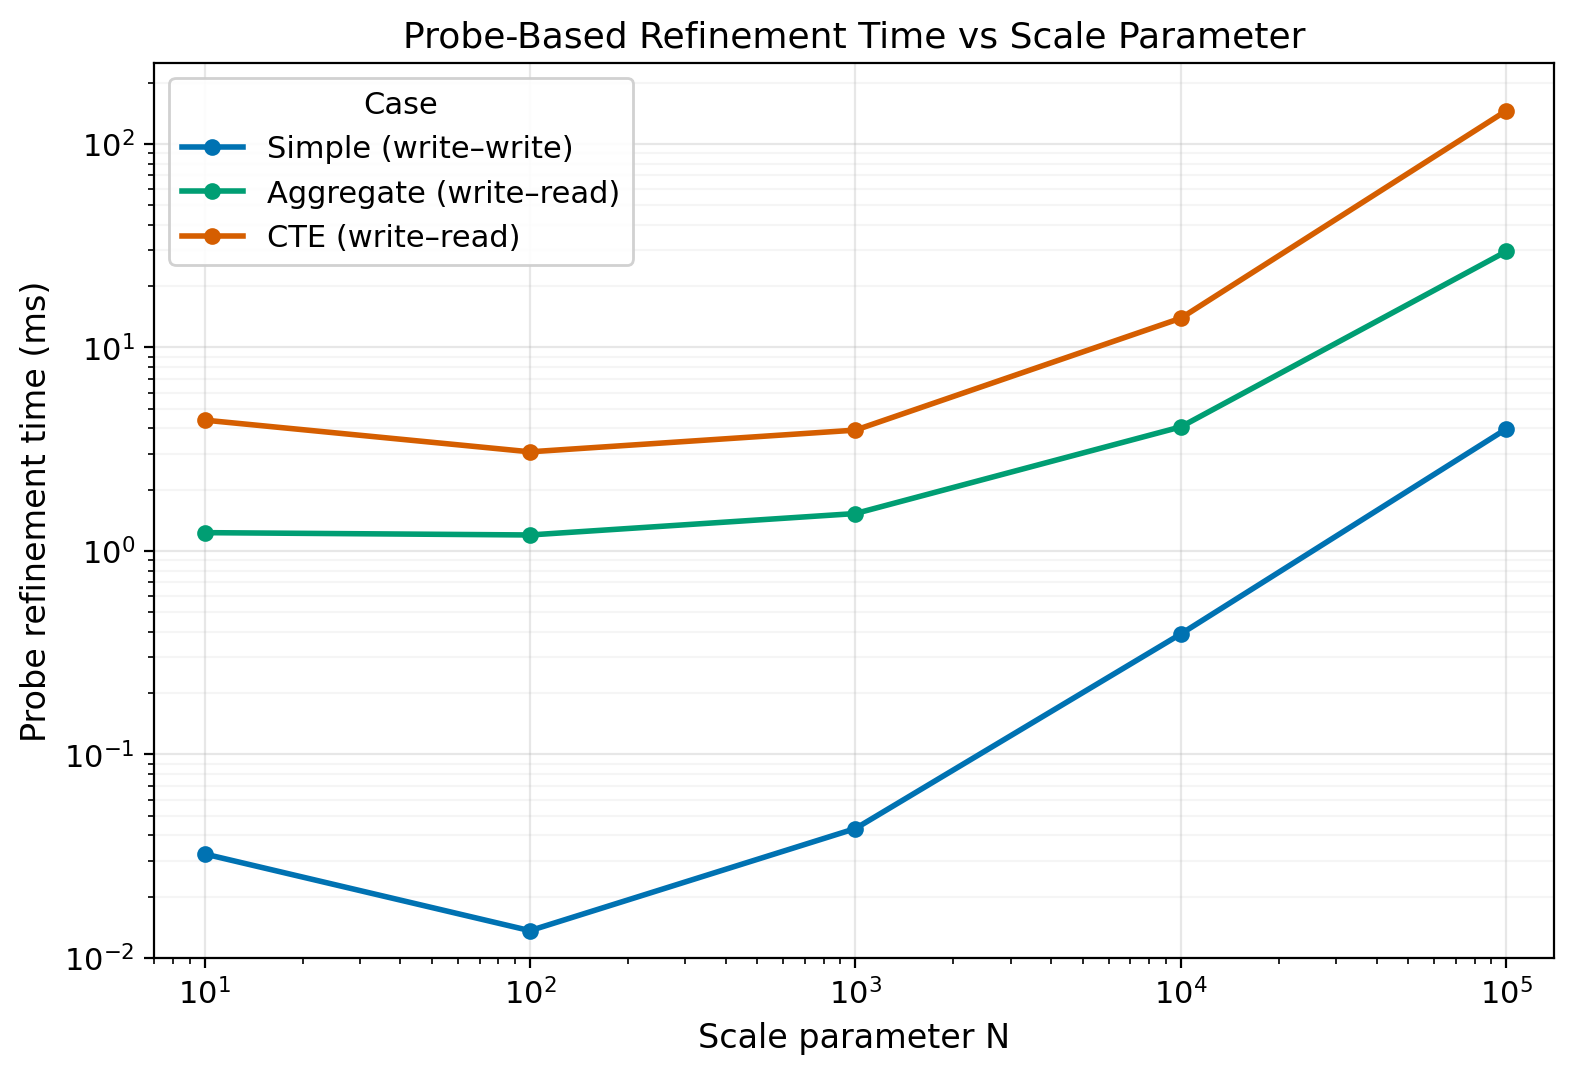
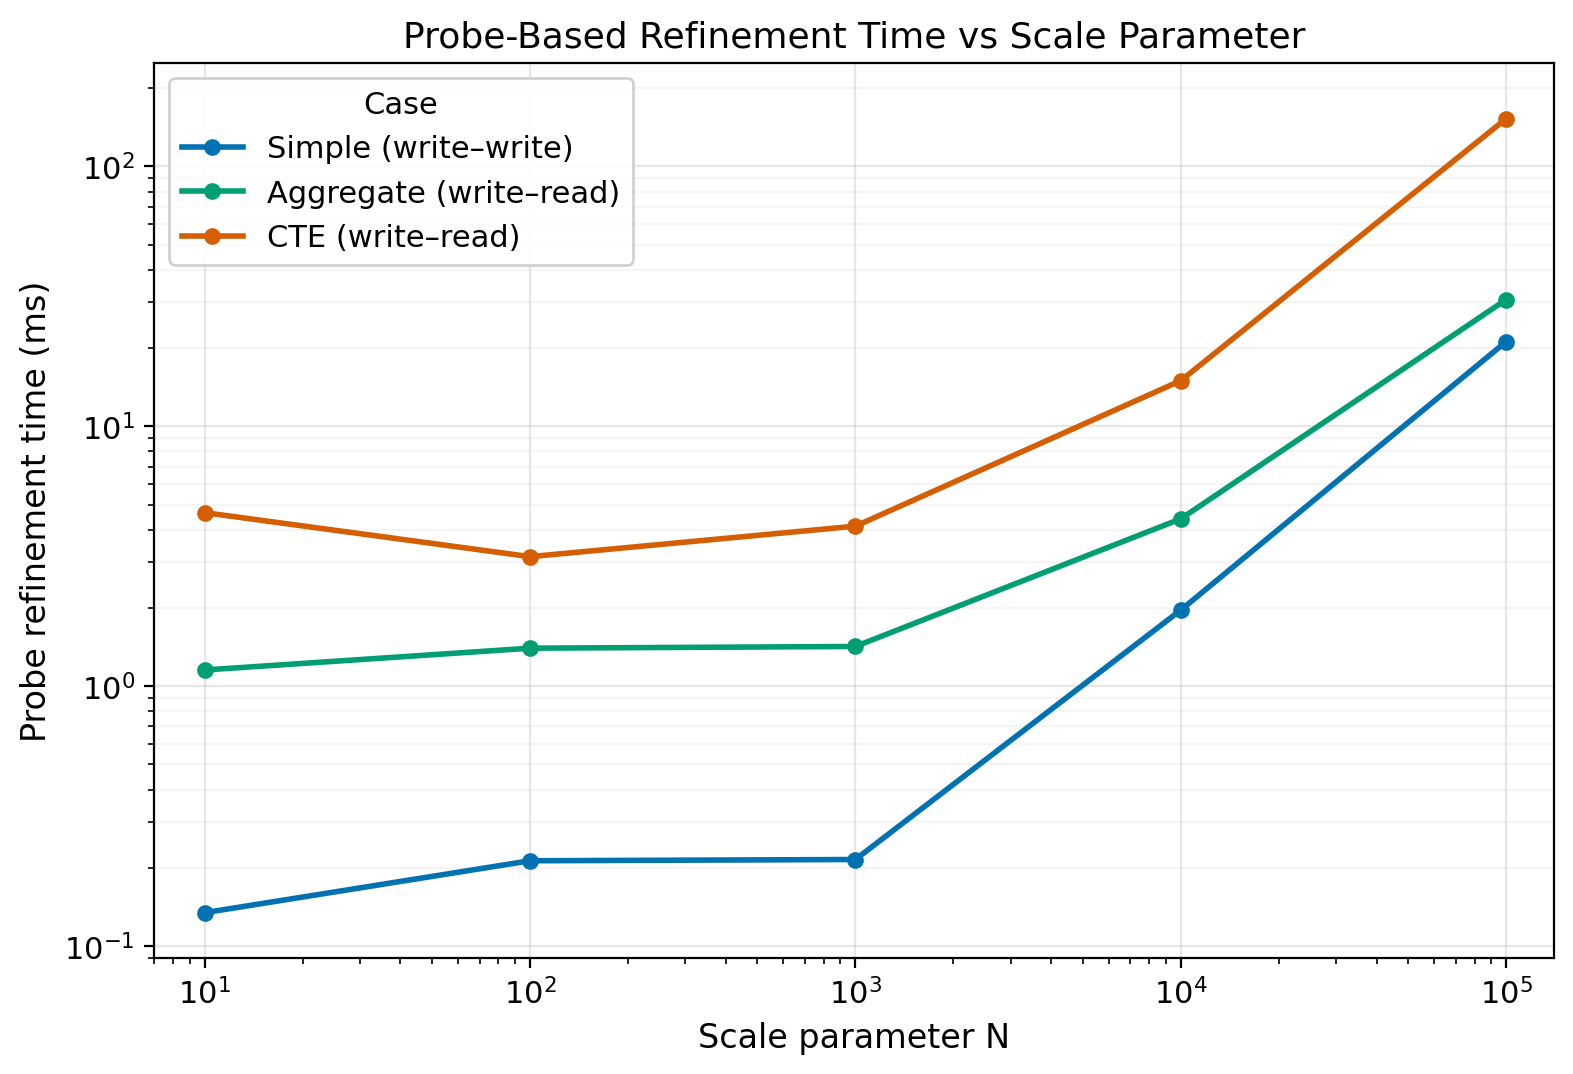
change microbenchmark so simle write-write is conflicting

diff --git a/evaluation/plot_report_graphs.py b/evaluation/plot_report_graphs.py
@@ -181,8 +181,8 @@ def main():
         metric="probe_refinement",
         title="Probe-Based Refinement Time vs Scale Parameter",
         ylabel="Probe refinement time (ms)",
-        ylim=(0.01, 250),
-        yticks=[0.01, 0.1, 1, 10, 100],
+        ylim=(0.09, 250),
+        yticks=[0.1, 1, 10, 100],
         stem="graph_probe_refinement",
     )
 
@@ -191,8 +191,8 @@ def main():
         metric="pair_check_pipeline",
         title="Pair-Check Pipeline Time vs Scale Parameter",
         ylabel="Pair-check pipeline time (ms)",
-        ylim=(0.9, 600),
-        yticks=[1, 10, 100, 500],
+        ylim=(0.45, 600),
+        yticks=[0.5, 1, 10, 100, 500],
         stem="graph_pair_check_pipeline",
     )
 

diff --git a/tools/run_microbenchmark.py b/tools/run_microbenchmark.py
@@ -231,7 +231,6 @@ def _measure_statement_pair_case(
 
 def _statement_pairs(row_count: int) -> tuple[StatementPair, ...]:
     current_range = f"id BETWEEN 1 AND {row_count}"
-    other_range = f"id BETWEEN {row_count + 1} AND {row_count * 2}"
     return (
         StatementPair(
             name="simple_write_write",
@@ -243,7 +242,7 @@ def _statement_pairs(row_count: int) -> tuple[StatementPair, ...]:
             other_sql=(
                 "UPDATE items "
                 "SET value = value + 1 "
-                f"WHERE {other_range}"
+                f"WHERE {current_range}"
             ),
             static_kinds=("write_write",),
         ),